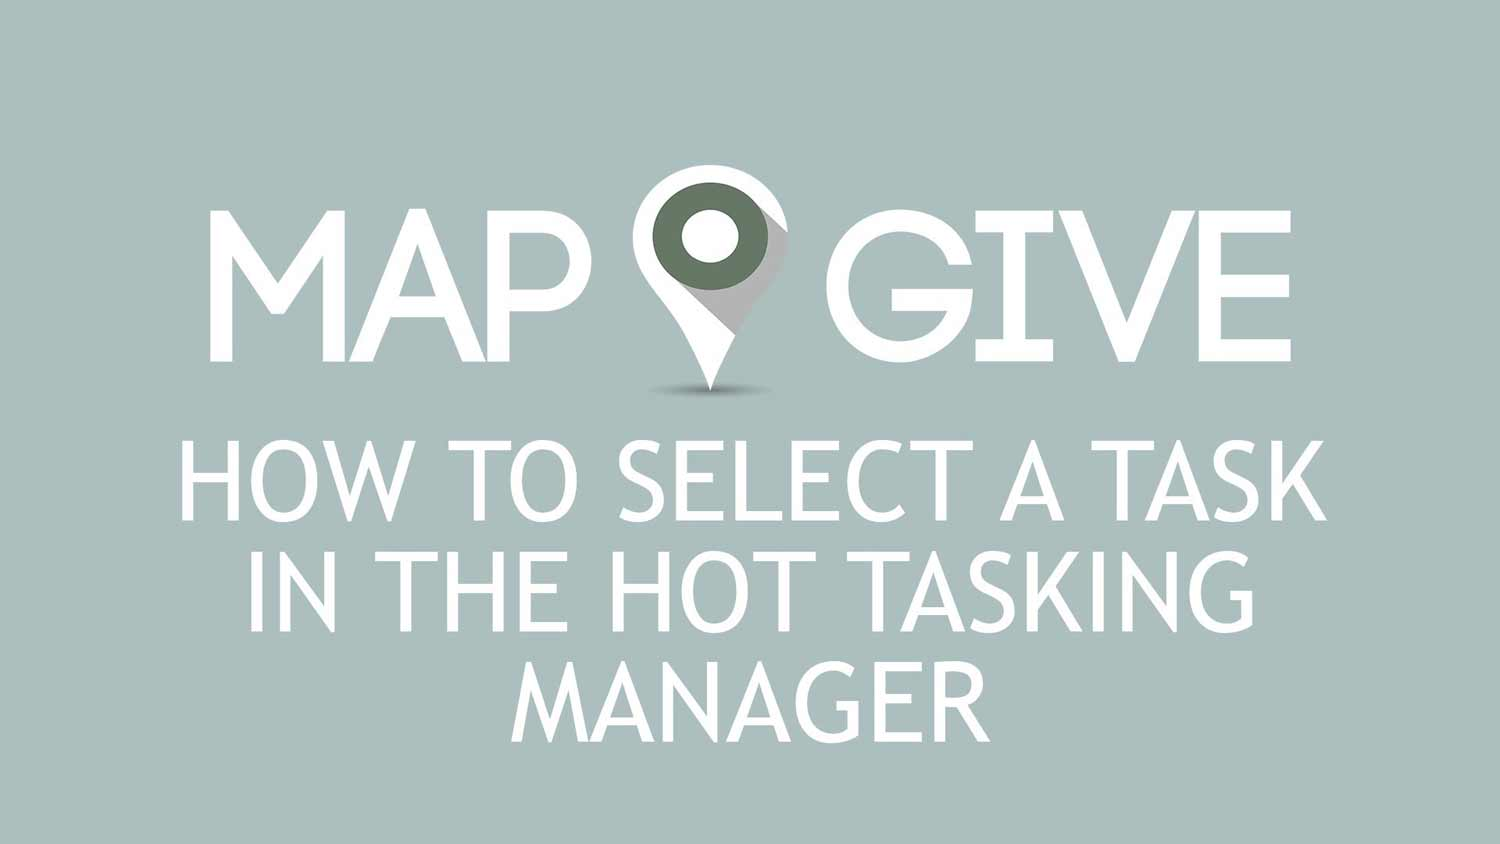
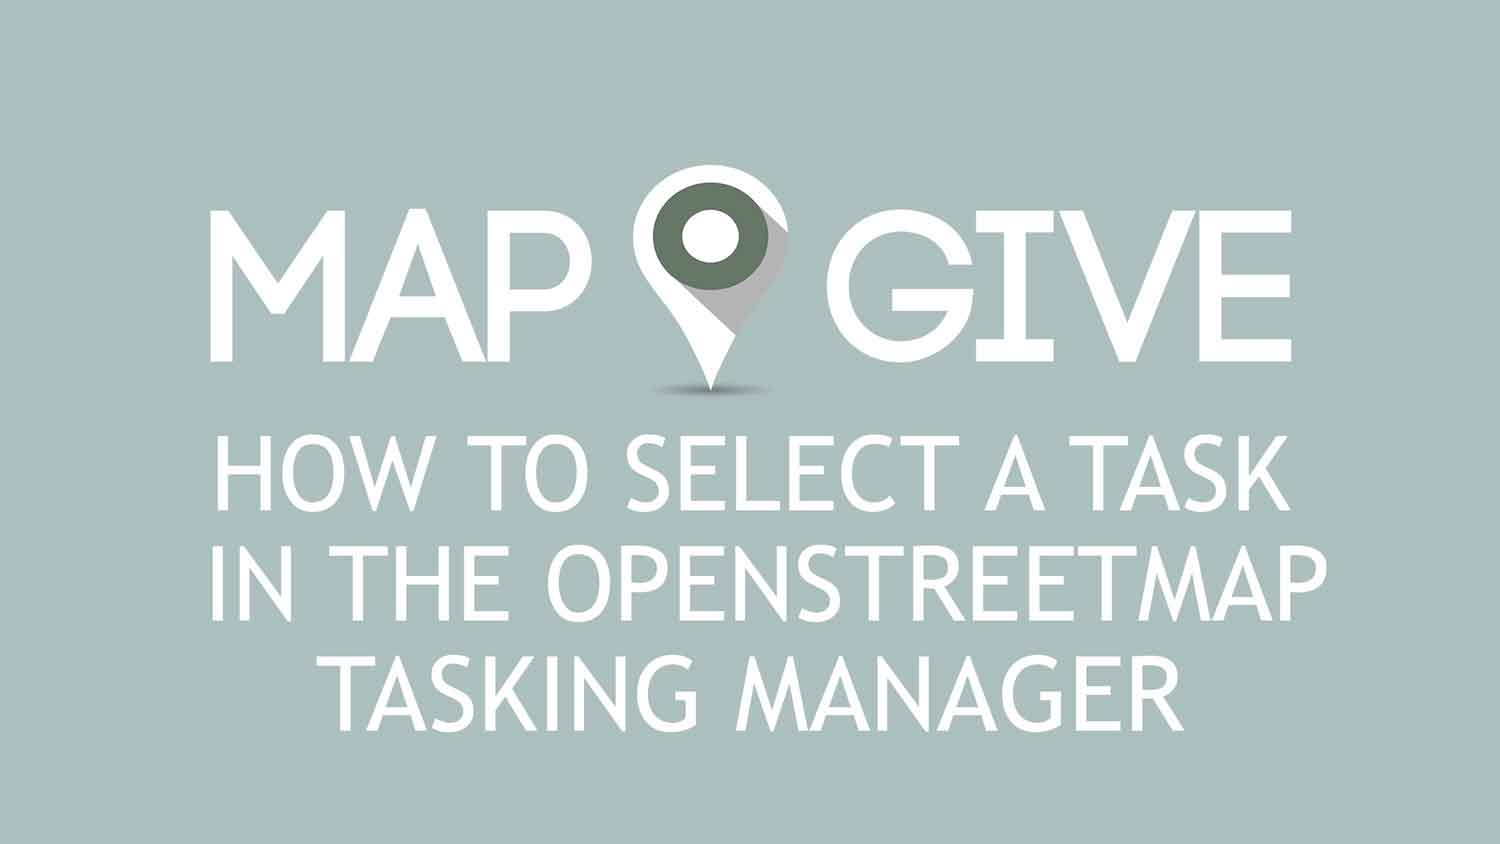
changed how-to video embeds, HOT abbreviation, and transcripts

Changed region(s): [[0.1227, 0.6469, 0.8893, 0.8934], [0.1227, 0.4929, 0.8893, 0.6161]]

diff --git a/learn-to-map/index.html b/learn-to-map/index.html
@@ -80,7 +80,7 @@ emailDescription: "Start mapping in three easy steps. Get an OpenStreetMap accou
               </ol>
               <h2>Learn How to Map in OpenStreetMap</h2>
               <div class="video">
-                <div class="video-player-container shadowed" data="9Jz-xn9mw7E">
+                <div class="video-player-container shadowed" data="DpwGdS7wH1M">
                   <img src="/assets/img/how-to-map.jpg" alt="YouTube embedded video: Learn How to Map in OpenStreetMap. Press space or enter to play video." class="img-responsive" />
                   <div class="play" tabindex="0">
                     <span class="play-button"></span>
@@ -163,25 +163,25 @@ Estimated time: Plan on 1-3 hours.</p>
           </div>
           <div class="row">
             <div class="col-md-12">
-              <h2>Select a Task in the HOT Tasking Manager</h2>
+              <h2>How to Select a Task in the OpenStreetMap Tasking Manager</h2>
               <div class="video">
-                <div class="video-player-container shadowed" data="AhlTcaf7Qec">
-                  <img src="/assets/img/how-to-select.jpg" alt="YouTube embedded video: How to Select a Task in the HOT Tasking Manager. Press space or enter to play video." class="img-responsive" />
+                <div class="video-player-container shadowed" data="4BNOvj0WZrk">
+                  <img src="/assets/img/how-to-select.jpg" alt="YouTube embedded video: How to Select a Task in the OpenStreetMap Tasking Manager. Press space or enter to play video." class="img-responsive" />
                   <div class="play" tabindex="0">
                     <span class="play-button"></span>
                   </div>
                 </div>
-                <p class="caption"><a href="/transcripts/hot-tasking-manager.html">Read the video transcript</a></p>
+                <p class="caption"><a href="/transcripts/osm-tasking-manager.html">Read the video transcript</a></p>
               </div>
               <dl class="js-accordion accordion" role="tablist" aria-multiselectable="true">
                 <dt id="accordion3-title1" role="tab" aria-controls="accordion3-panel1" aria-selected="true" aria-expanded="true" tabindex="0">Read the Written Instructions</dt>
                 <dd id="accordion3-panel1" role="tabpanel" aria-labelledby="accordion3-title1" aria-hidden="false">
-                	<p>Goal: Select a <strong>Job</strong> and <strong>Task</strong> from the HOT Tasking Manager. You do not need to be at the location and do not need knowledge of the selected project area. You do need to identify and trace roads or paths, buildings or areas in the same way you did when you were learning to map. Estimated time to spend each time you sit down to work on a map tile that is part of a task: 30 minutes or more.
+                	<p>Goal: Select a <strong>Job</strong> and <strong>Task</strong> from the OpenStreetMap Tasking Manager. You do not need to be at the location and do not need knowledge of the selected project area. You do need to identify and trace roads or paths, buildings or areas in the same way you did when you were learning to map. Estimated time to spend each time you sit down to work on a map tile that is part of a task: 30 minutes or more.
 </p>
 				<ul>
-                	<li>To select a <strong>Job</strong>, navigate to the <a href="http://tasks.hotosm.org/" target="_blank">Humanitarian OpenStreetMap</a> (H.O.T.) team’s tasking manager landing page. You will most likely not be able to add names to areas and roads but that is okay. Others with special knowledge of the area can add that later. Your map effort still makes a huge difference and a positive impact on humanitarian efforts.</li>
+                	<li>To select a <strong>Job</strong>, navigate to the <a href="http://tasks.hotosm.org/" target="_blank">OpenStreetMap Tasking Manager</a> landing page. You will most likely not be able to add names to areas and roads but that is okay. Others with special knowledge of the area can add that later. Your map effort still makes a huge difference and a positive impact on humanitarian efforts.</li>
                 	<li>Log in with your OpenStreetMap account. If you are still logged in to OpenStreetMap, you will not need to enter your login info.</li>
-                	<li>A new page will open asking if the Humanitarian OpenStreetMap tasking manager can connect to your OpenStreetMap account. Click the accept button. You will be taken to a new page will a list of available jobs. You can see the titles, a description, who created them, when they were last updated and a percentage bar to show how complete the map is at this moment.</li>
+                	<li>A new page will open asking if the OpenStreetMap Tasking Manager can connect to your OpenStreetMap account. Click the accept button. You will be taken to a new page will a list of available jobs. You can see the titles, a description, who created them, when they were last updated and a percentage bar to show how complete the map is at this moment.</li>
                 	<li>Select a Job. Once you’ve selected a job, a new page opens with a map and some information. The information about the job describes what the requester would like you to focus on, workflow, the tasks, which users have worked on this job and some stats about the job.</li>
                 	<li>Use the interactive map and zoom in on the highlighted tiles. The job has been broken up into small tile areas of the map to allow you to do a little bit of mapping rather than trying to map the entire area. This also lets other simultaneously map other tiles, or areas. By doing this in small pieces, you can all work faster.</li>
                 	<li>Gray squares represent all of the tasks available in this job. Red tiles are areas that have been marked as done. Green tiles are areas that were marked as done but have now been validated. Gray tiles with yellow outlines are areas that are currently being worked on. </li>
@@ -202,7 +202,7 @@ Estimated time: Plan on 1-3 hours.</p>
                 	<li>Now, simply make edits to the map - adding roads, paths, buildings, and areas - just like you did when you learned to map.
                 	<br /><strong>TIP</strong>: You will not see the border of the tile you've selected in the map editor. That's okay. Try and stay within the area in which the map loads when you open the editor. BUT if you map outside of that area as well, that's okay too.</li>
                 	<li>Some map areas will have a lot to map. Some will be mostly empty. Do as much as you can, or want to do, and then save your edits. </li>
-                	<li>Once you have made edits and saved them, go back to the <strong>OSM tasking manager</strong> tab.</li>
+                	<li>Once you have made edits and saved them, go back to the <strong>OpenStreetMap Tasking Manager</strong> tab.</li>
                 	<li>On the left side of the screen, at the bottom, you can <strong>Mark task as done</strong> if you feel you have made all of the map edits possible in that area. If you did some edits but left more to do, click <strong>Unlock it</strong> (in the sentence below the done button) to release the map square back for others to edit.
                 	<br /><strong>TIP</strong>: Unlocking a task = “checking it back in” to the system.
                 	</li>

diff --git a/commonly-asked-questions/index.html b/commonly-asked-questions/index.html
@@ -27,7 +27,7 @@ emailDescription: "Have questions about MapGive? Find answers to commonly asked 
         <ol>
         <li>Get an <a href="http://www.openstreetmap.org/" target="_blank">OpenStreetMap</a> login</li>
         <li>Learn and practice mapping (tracing and labeling)</li>
-        <li>Map/digitize (trace and label) a specific area in the H.O.T. Task Manager</li>
+        <li>Map/digitize (trace and label) a specific area in the HOT Task Manager</li>
         </ol>
         <p>Note: You will not be able to map from mobile device.</p>
       </dd>
@@ -42,7 +42,7 @@ emailDescription: "Have questions about MapGive? Find answers to commonly asked 
         <p>Members of the professional online mapping community review samples of map edits for quality assurance. When a mapper completes a tile, it turns red. Then, an experienced mapper, typically from the Humanitarian OpenStreetMap team, reviews a sample of those edits to validate the work.  Validated tiles display as green. If edits are not acceptable, then the reviewer resets the tile to grey and returns it to the tasking manager to be worked on again. Additionally, with the large number of volunteer mappers contributing data, the information is often self-checked by the online mapping community itself.</p>
       </dd>
 
-      <dt id="title4" role="tab" aria-controls="panel4" aria-selected="true" aria-expanded="true" tabindex="0">How is OpenStreetMap/H.O.T. different than other online map providers and tools like Ushahidi and others?</dt>
+      <dt id="title4" role="tab" aria-controls="panel4" aria-selected="true" aria-expanded="true" tabindex="0">How is OpenStreetMap/HOT different than other online map providers and tools like Ushahidi and others?</dt>
       <dd id="panel4" role="tabpanel" aria-labelledby="title4" aria-hidden="false">
         <p><a href="http://www.openstreetmap.org/" target="_blank">OpenStreetMap</a> and <a href="http://www.ushahidi.com/" target="_blank">Ushahidi</a> work together. Ushahidi is an open source project which allows users to crowdsource information for mobile distribution.  Such platforms cannot function without base map data. Geographic data provides the bridge between citizen reporting and action. </p>
         <p>Mapquest Open directly edits OpenStreetMap data; it is primarily focused on the U.S.</p>
@@ -50,9 +50,9 @@ emailDescription: "Have questions about MapGive? Find answers to commonly asked 
         <p>Many other online map providers do not put data in the public domain. Essentially, if you work within some tools, you are creating data that the provider owns. These providers also typically impose restrictions on the usage of the created maps and most importantly, the data that was used to create the maps.</p>
       </dd>
       
-	  <dt id="title5" role="tab" aria-controls="panel5" aria-selected="true" aria-expanded="true" tabindex="0">What is H.O.T.?</dt>
+	  <dt id="title5" role="tab" aria-controls="panel5" aria-selected="true" aria-expanded="true" tabindex="0">What is HOT?</dt>
       <dd id="panel5" role="tabpanel" aria-labelledby="title5" aria-hidden="false">
-        <p>The <a href="http://hot.openstreetmap.org/" target="_blank">Humanitarian OpenStreetMap Team</a> is incorporated as a U.S. based 501c(3) non-profit organization that coordinates volunteer mappers and on the ground mapping efforts through OpenStreetMap. The efforts of the Humanitarian OpenStreetMap Team (H.O.T.) first had a significant impact supporting on the ground efforts after an earthquake hit Haiti in 2010. Its mission is to apply the principles of open source and open data sharing towards humanitarian response and economic development.</p>
+        <p>The <a href="http://hot.openstreetmap.org/" target="_blank">Humanitarian OpenStreetMap Team</a> is incorporated as a U.S. based 501c(3) non-profit organization that coordinates volunteer mappers and on the ground mapping efforts through OpenStreetMap. The efforts of the Humanitarian OpenStreetMap Team (HOT) first had a significant impact supporting on the ground efforts after an earthquake hit Haiti in 2010. Its mission is to apply the principles of open source and open data sharing towards humanitarian response and economic development.</p>
       </dd>
 
 <dt id="title6" role="tab" aria-controls="panel6" aria-selected="true" aria-expanded="true" tabindex="0">What is the Humanitarian Information Unit’s Imagery to the Crowd?</dt>

diff --git a/about-open-mapping/index.html b/about-open-mapping/index.html
@@ -30,7 +30,7 @@ emailDescription: "OpenStreetMap (OSM) is a non-profit project that is building 
           <header>
             <h2 class="media-heading">OpenStreetMap</h2>
           </header>
-          <p><a href="http://www.openstreetmap.org/" target="_blank">OpenStreetMap</a> (OSM) is a United Kingdom-based non-profit project that is building a free digital map of the world. Online volunteers, or remote mappers, contribute data that creates an accurate, detailed and up-to-date map. There are many free maps on the Internet, but the underlying data in many other maps is not available for the public to use. OpenStreetMap opens up the map and the data to the public and makes it free to modify and use under an open license (<a href="http://www.openstreetmap.org/copyright" target="_blank">Open Data Commons Open Database License 1.0)</a>. </p>
+          <p><a href="http://www.openstreetmap.org/" target="_blank">OpenStreetMap</a> (OSM) is a United Kingdom-based non-profit project that is building a free digital map of the world. Online volunteers, or remote mappers, contribute data that creates an accurate, detailed and up-to-date map. There are many free maps on the Internet, but the underlying data in many other maps is not available for the public to use due to legal and technical restrictions. OpenStreetMap opens up the map and the data to the public and makes it free to modify and use under an open license (<a href="http://www.openstreetmap.org/copyright" target="_blank">Open Data Commons Open Database License 1.0)</a>. </p>
         </div>
       </div>
     </article>
@@ -43,7 +43,7 @@ emailDescription: "OpenStreetMap (OSM) is a non-profit project that is building 
           <header>
             <h2 class="media-heading">Humanitarian OpenStreetMap Team</h2>
           </header>
-          <p>The <a href="http://hot.openstreetmap.org/about" target="_blank">Humanitarian OpenStreetMap Team</a> is incorporated as a U.S. based 501c(3) non-profit organization that coordinates volunteer mappers and on the ground mapping efforts through OpenStreetMap.The efforts of the Humanitarian OpenStreetMap Team (H.O.T.) first had a significant impact supporting earthquake relief in Haiti in 2010. Its mission is to apply the principles of open source and open data sharing towards humanitarian response and economic development.</p>
+          <p>The <a href="http://hot.openstreetmap.org/" target="_blank">Humanitarian OpenStreetMap Team</a> (HOT) is incorporated as a U.S. based 501c(3) non-profit organization that coordinates the creation, production and distribution of free mapping resources to support humanitarian relief efforts in many places around the world through OpenStreetMap. HOT efforts made a significant impact supporting earthquake relief in Haiti in 2010. Its mission is to apply the principles of open source and open data sharing towards humanitarian response and economic development.</p>
         </div>
       </div>
     </article>

diff --git a/stories/_posts/2013-12-6-responding-to-disasters.md b/stories/_posts/2013-12-6-responding-to-disasters.md
@@ -14,7 +14,7 @@ emailSubject: Before typhoon Haiyan made landfall, mappers went to work.
 emailDescription: "In November 2013, the Humanitarian OpenSteetMap Team (HOT) activated volunteer mappers well in advance of super typhoon Haiyan making landfall in the Philippines in order to gather a baseline of geographic data."
 ---
 
-In November 2013, the <a href="http://hot.openstreetmap.org/about" target="_blank">Humanitarian OpenSteetMap Team</a> (H.O.T.) started activating volunteer mappers even before super typhoon Haiyan made landfall in the Philippines to gather a baseline of geographic data.
+In November 2013, the <a href="http://hot.openstreetmap.org/" target="_blank">Humanitarian OpenSteetMap Team</a> (HOT) started activating volunteer mappers even before super typhoon Haiyan made landfall in the Philippines to gather a baseline of geographic data.
 
 Some 1600 volunteers quickly added approximately 4.5 million edits to the base map.
 This information provided critical data for assessing damage to infrastructure, getting people to evacuation centers and hospitals and routing emergency relief supplies. Crisis Camps around the world rallied volunteers to pitch in to mapping efforts. Journalist Tyler Machado reported on his experience at a Crisis Camp in Vermont.
@@ -36,4 +36,4 @@ It’s easy to take extensive geographic information for granted in the develope
 
 Of course, the mere act of plotting roads on maps doesn’t help storm-stricken Filipinos to recovery. The crisis mapping of globally distributed volunteers is useful because it guides the relief work that’s happening on the ground. The OpenStreetMap software encourages this use; a viewer can see the maps in “humanitarian mode,” which displays road and building damage as marked by editors.
 
-I’ve already lost track of which sections of the map I edited — the H.O.T. site, <a href="http://tasks.hotosm.org/" target="_blank">Humanitarian OpenStreetMap Team tasking manager</a>, now assigns me a new task when I visit it. But, as long as there are paths through the sugar-cane fields and mountains of the Philippines, there’s more work to be done — and I hope what’s been done so far has made the relief efforts more useful to the people who live there.
+I’ve already lost track of which sections of the map I edited — the HOT site, <a href="http://tasks.hotosm.org/" target="_blank"> OpenStreetMap Tasking Manager</a>, now assigns me a new task when I visit it. But, as long as there are paths through the sugar-cane fields and mountains of the Philippines, there’s more work to be done — and I hope what’s been done so far has made the relief efforts more useful to the people who live there.
